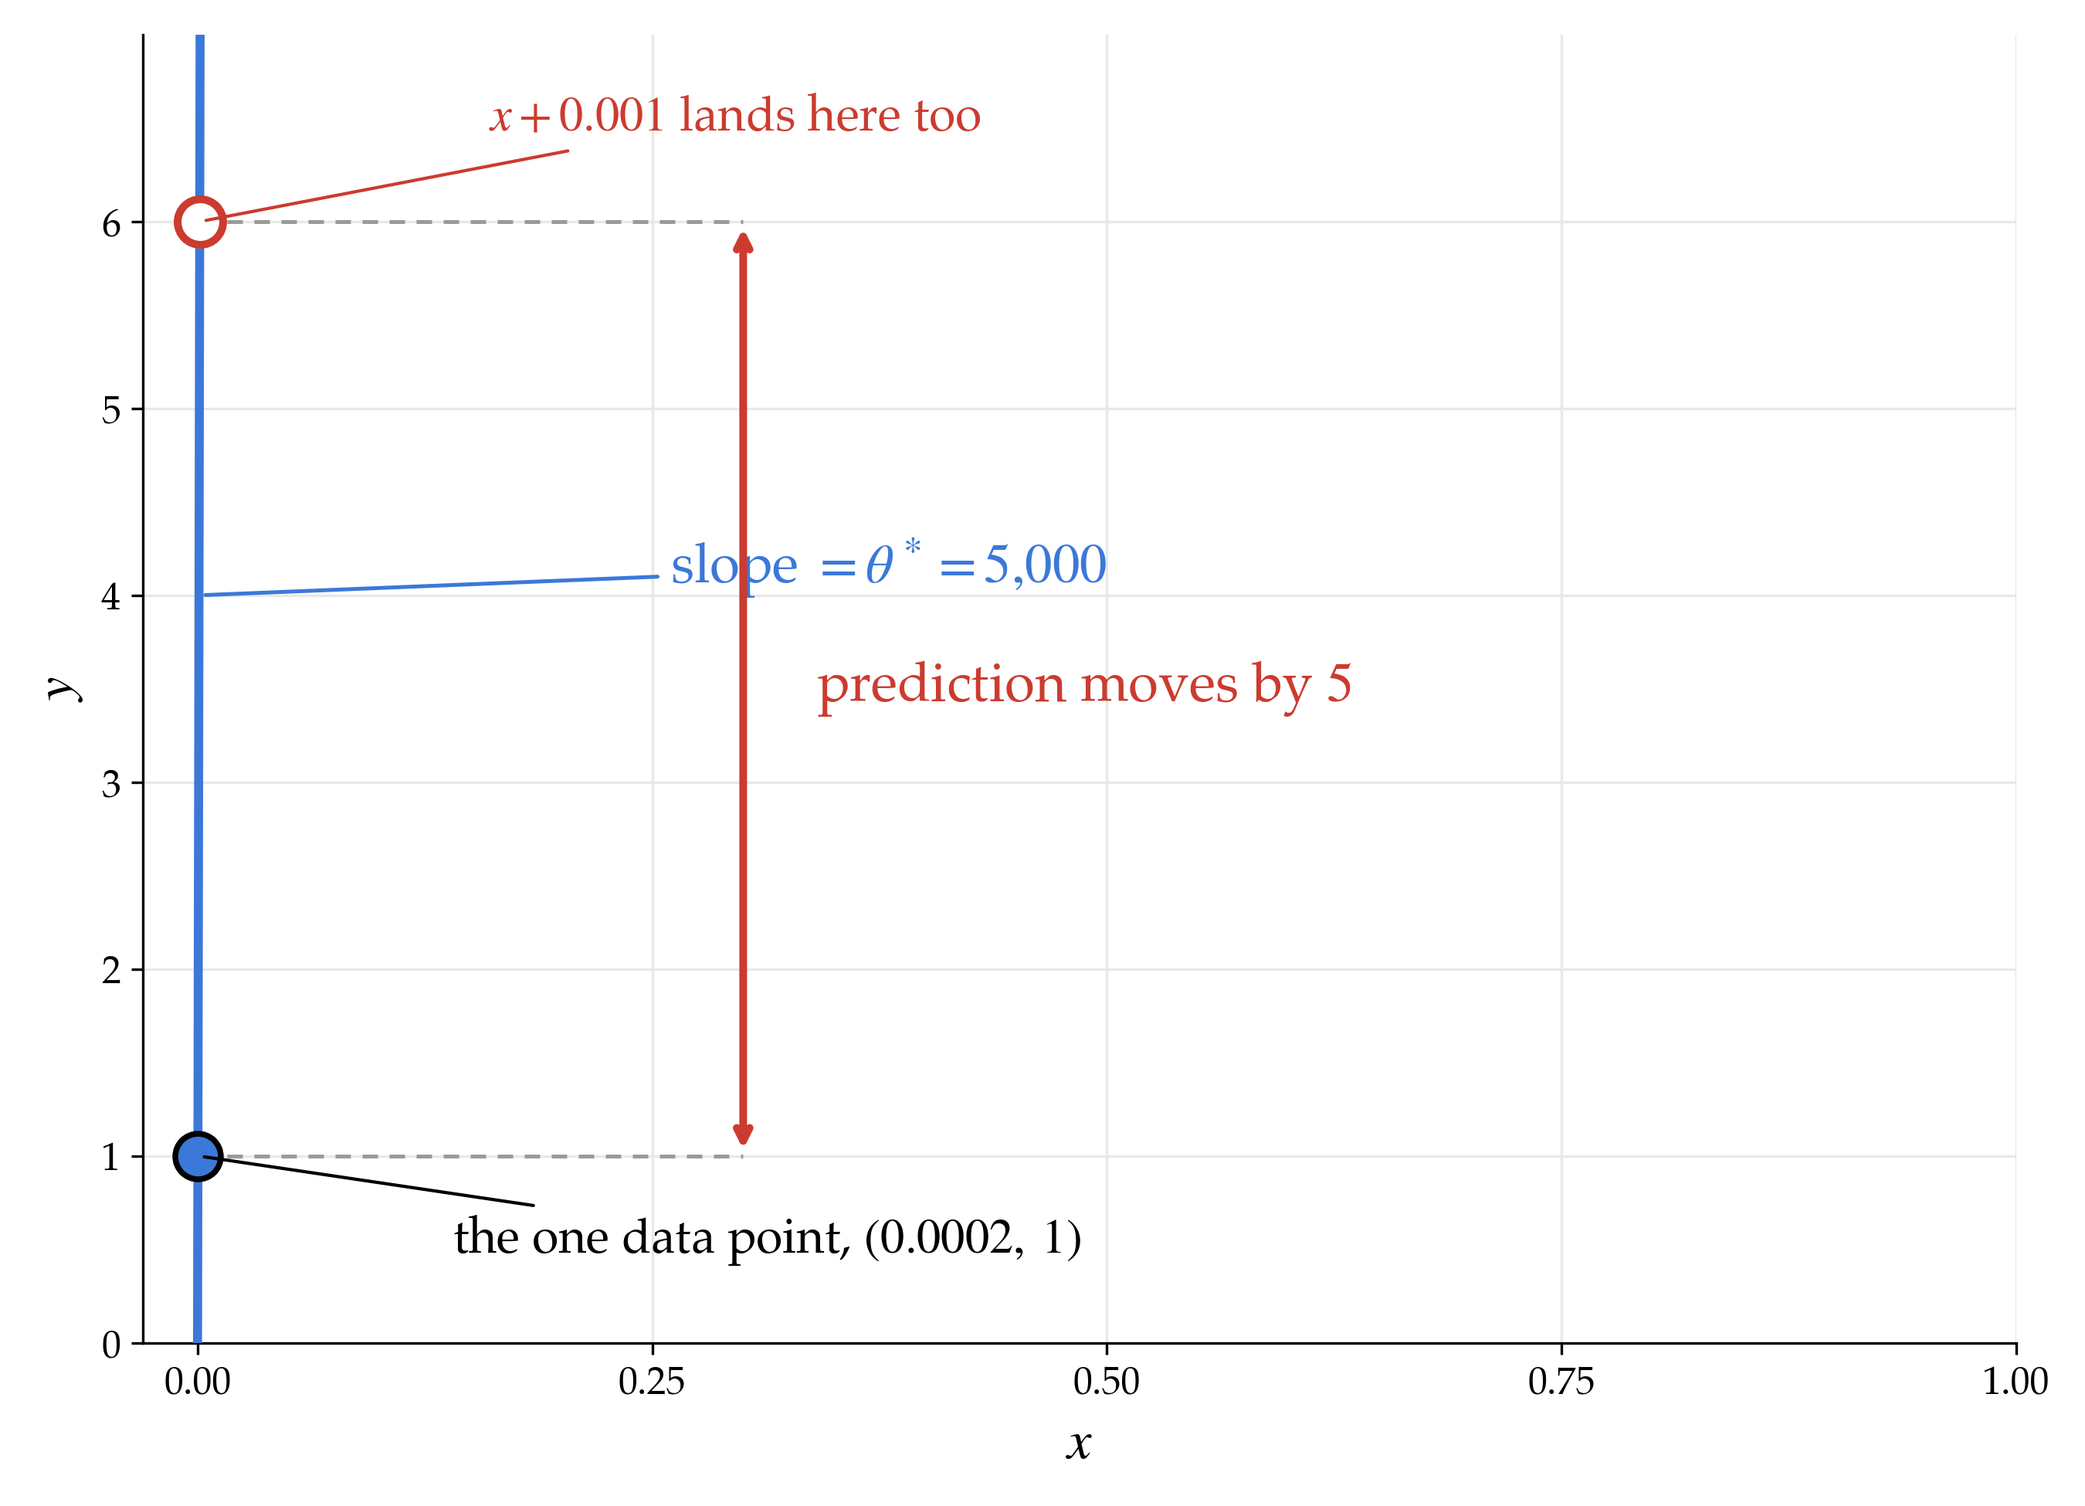
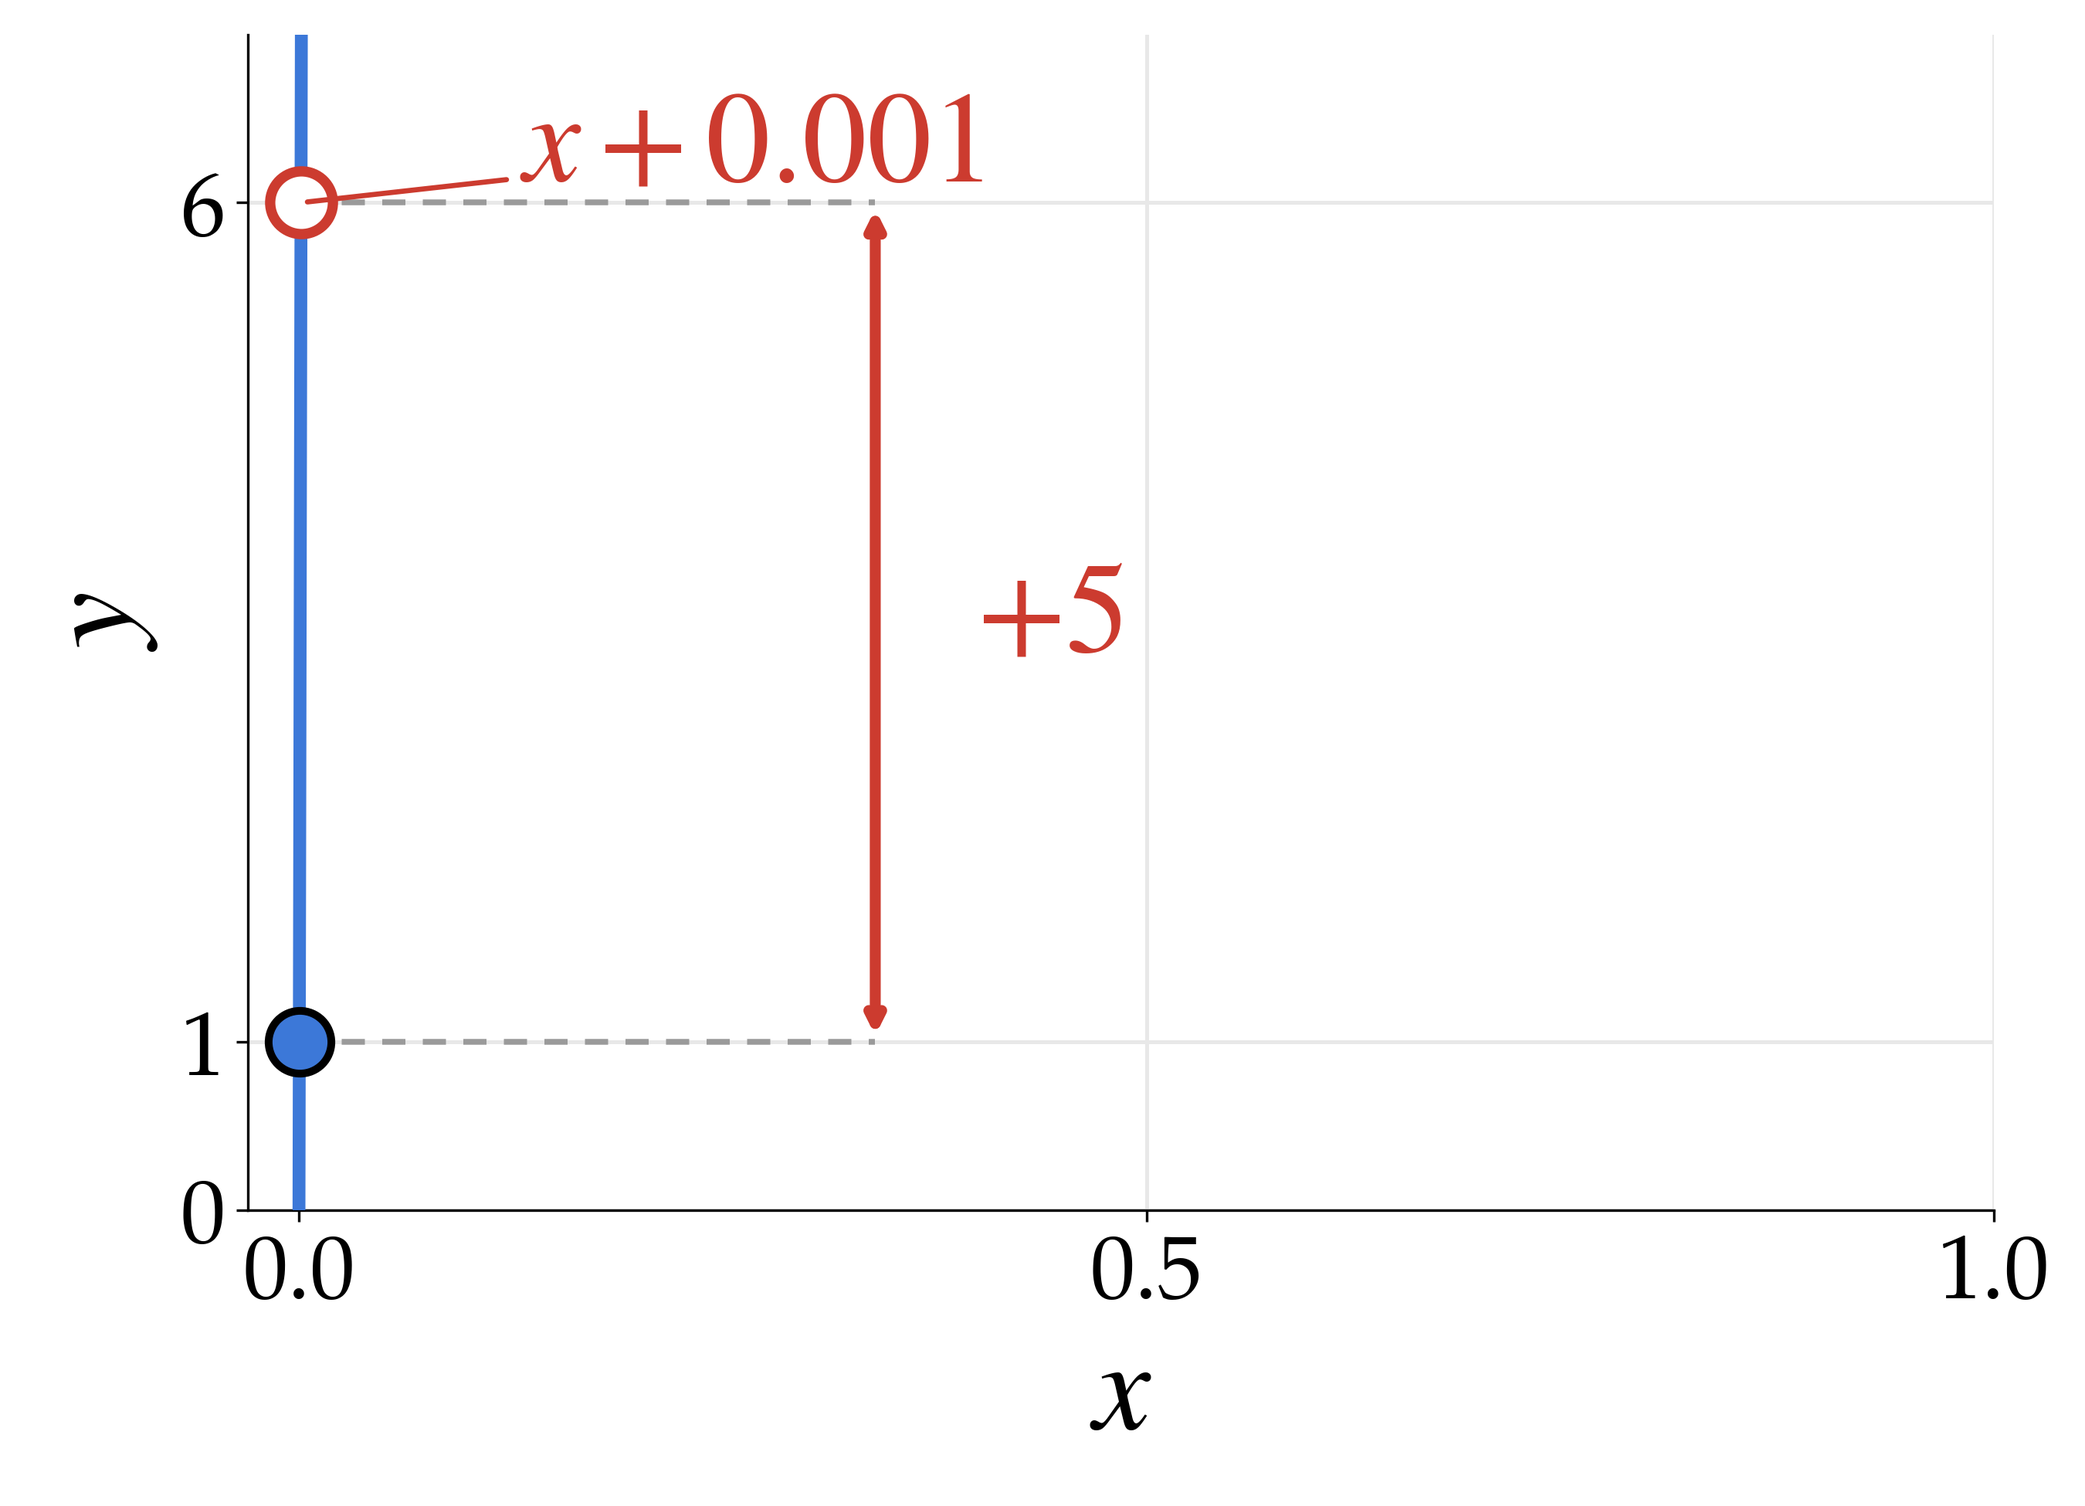
ridge: size the sensitivity figures for a 400px placement
These sit on the slide about 400px wide, a downscale of four to six, so 17pt type
arrived at roughly 11px and could not be read. Labels are now 34 to 40pt, landing
near 26 to 31px on the slide.

That size only works with far fewer labels. At 48pt with the original five, the
theta caption sat on the gap arrow and the theta value was written through a data
point. Each figure now carries only what it is for: the fit names theta*, the
nudge names the gap, and the two-feature pair names neither, since the value and
the prose belong in slide text blocks that render at full slide resolution instead
of being shrunk with the picture.

The inset also gets an equal aspect. Its box is about 1.6 times wider than tall,
so equal data spans drew unequal lengths and the horizontal wobble came out 60%
longer than the vertical deviation it is meant to match. The whole point of that
inset is comparing those two arrows by eye, so the picture was overstating the
thing it was proving.

diff --git a/ridge/two-feature-collinear.py b/ridge/two-feature-collinear.py
@@ -16,12 +16,16 @@ from PIL import Image
 # The one-feature slides show the consequence, a huge theta and a prediction that
 # swings. This shows the cause. The four points sit within 0.001 of the line
 # x2 = x1, so every scrap of information distinguishing the two features lives in a
-# band a thousandth wide. To turn that band into labels spanning 5, the fit has to
-# multiply it by about a thousand, which is precisely theta = (-999, 1000).
+# band a thousandth wide. Turning that into labels spanning 5 takes a multiplier of
+# about a thousand, which is precisely theta = (-999, 1000).
 #
 # A 3D picture of that plane is unreadable: over this data box it spans about
 # +/-5000 in y, so it renders as a vertical wall. The demo on the same slide is the
 # better place to watch the plane move. This is here to explain why it moves.
+#
+# Placed about 400px wide, so type is set for a downscale of roughly four and a
+# half. At that size only one or two labels fit before they start landing on the
+# data, so the theta value and the prose belong in slide text blocks, not here.
 X1 = np.array([-2.0, -1.0, 1.0, 2.0])
 X2 = np.array([-1.999, -1.001, 0.999, 2.001])
 Y = np.array([-1.0, -2.0, 0.0, 3.0])
@@ -32,6 +36,7 @@ DELTA = 0.001                        # a measurement wobble, the same size
 POINT, LINE, NUDGE, FAINT = '#3c78d8', '#9a9a9a', '#cc3b2f', '#e8e8e8'
 LIM = 2.6
 ZOOM_AT = 3                          # which point the inset magnifies
+BIG, MID, TICK = 34, 28, 26          # sized for a 400px-wide placement
 
 
 def save(fig, out):
@@ -50,18 +55,19 @@ def frame():
     """Feature space, with the four points and the line they almost lie on."""
     fig, ax = plt.subplots(figsize=(9, 6.5))
     ax.plot([-LIM, LIM], [-LIM, LIM], color=LINE, linestyle='--', dashes=(6, 4),
-            linewidth=1.6, zorder=2)
-    ax.annotate(r'$x_2 = x_1$', xy=(1.55, 1.55), xytext=(1.95, 1.15),
-                fontsize=16, color=LINE, va='center', zorder=5)
-    ax.scatter(X1, X2, s=200, color=POINT, edgecolors='black', linewidth=1.8, zorder=6)
+            linewidth=2.6, zorder=2)
+    # Lower right, the one quadrant with neither a point nor the inset in it.
+    ax.annotate(r'$x_2 = x_1$', xy=(0.35, -1.75), xytext=(0.35, -1.75),
+                fontsize=BIG, color=LINE, va='center', zorder=5)
+    ax.scatter(X1, X2, s=380, color=POINT, edgecolors='black', linewidth=2.4, zorder=6)
     ax.set_xlim(-LIM, LIM)
     ax.set_ylim(-LIM, LIM)
-    ax.set_xlabel(r'$x_1$', fontsize=17)
-    ax.set_ylabel(r'$x_2$', fontsize=17)
-    ax.set_xticks([-2, -1, 0, 1, 2])
-    ax.set_yticks([-2, -1, 0, 1, 2])
-    ax.tick_params(labelsize=12)
-    ax.grid(True, color=FAINT, linewidth=0.8, zorder=0)
+    ax.set_xlabel(r'$x_1$', fontsize=BIG)
+    ax.set_ylabel(r'$x_2$', fontsize=BIG)
+    ax.set_xticks([-2, 0, 2])
+    ax.set_yticks([-2, 0, 2])
+    ax.tick_params(labelsize=TICK)
+    ax.grid(True, color=FAINT, linewidth=1.2, zorder=0)
     ax.set_aspect('equal')
     for side in ('top', 'right'):
         ax.spines[side].set_visible(False)
@@ -71,56 +77,52 @@ def frame():
 def inset(ax, show_nudge):
     """Magnify one point until the deviation from the line is actually visible."""
     cx, cy = X1[ZOOM_AT], X2[ZOOM_AT]
-    half = 0.0028
-    ins = ax.inset_axes([0.09, 0.58, 0.36, 0.36])
-    ins.plot([cx - half, cx + half], [cx - half, cx + half], color=LINE,
-             linestyle='--', dashes=(6, 4), linewidth=1.4, zorder=2)
-    ins.scatter([cx], [cy], s=150, color=POINT, edgecolors='black',
-                linewidth=1.6, zorder=6)
-    # the deviation, drawn as what it is: one thousandth
+    # Tight enough that the 0.001 deviation is about a third of the box. Any wider
+    # and the arrow measuring it is shorter than the marker sitting on top of it,
+    # which is what made the first version unreadable.
+    half = 0.0014
+    ins = ax.inset_axes([0.05, 0.62, 0.40, 0.34])
+    ins.plot([cx - 2 * half, cx + 2 * half], [cx - 2 * half, cx + 2 * half],
+             color=LINE, linestyle='--', dashes=(6, 4), linewidth=2.0, zorder=2)
+    ins.scatter([cx], [cy], s=200, color=POINT, edgecolors='black',
+                linewidth=2.0, zorder=6)
     ins.annotate('', xy=(cx, cy), xytext=(cx, cx),
-                 arrowprops=dict(arrowstyle='<->', color='black', linewidth=1.8), zorder=7)
-    ins.annotate(r'$0.001$', xy=(cx, cx + DEV[ZOOM_AT] / 2), xytext=(cx + 0.0004, cx + 0.0005),
-                 fontsize=13, color='black', va='center', zorder=7)
+                 arrowprops=dict(arrowstyle='<->', color='black', linewidth=2.4), zorder=7)
+    # Beside the arrow it measures, not adrift in a corner.
+    ins.annotate(r'$0.001$', xy=(cx, cx + DELTA / 2),
+                 xytext=(cx + 0.00022, cx + DELTA / 2),
+                 fontsize=MID, color='black', va='center', ha='left', zorder=7)
     if show_nudge:
+        # The wobble carries no label. It is the same length as the black arrow
+        # beside it, which is the entire point, and a word here lands on the data.
         ins.annotate('', xy=(cx + DELTA, cy), xytext=(cx, cy),
-                     arrowprops=dict(arrowstyle='->', color=NUDGE, linewidth=2.2), zorder=8)
-        ins.annotate('a $0.001$ wobble', xy=(cx + DELTA, cy), xytext=(cx - 0.0025, cy + 0.0013),
-                     fontsize=13, color=NUDGE, va='center', zorder=8)
+                     arrowprops=dict(arrowstyle='->', color=NUDGE, linewidth=3.0), zorder=8)
     ins.set_xlim(cx - half, cx + half)
-    ins.set_ylim(cx - half, cx + half * 1.4)
+    ins.set_ylim(cx - half * 0.6, cx + half * 1.4)
+    # Equal aspect, because the reader is meant to compare the two arrows by eye.
+    # The inset box is about 1.6 times wider than it is tall, so without this the
+    # horizontal wobble renders 60% longer than the vertical deviation it is
+    # supposed to match, and the picture overstates the very thing it is proving.
+    ins.set_aspect('equal')
     ins.set_xticks([]); ins.set_yticks([])
     for s in ins.spines.values():
         s.set_color('#bbbbbb')
     ins.set_facecolor('white')
-    ins.set_title('zoomed in on one point', fontsize=13, color='#555555', pad=6)
     # Connect the inset to the speck it came from. Without this the zoom floats and
     # nothing says which of the four points it magnifies, or how small the region is.
-    ax.indicate_inset_zoom(ins, edgecolor='#999999', linewidth=1.2, alpha=0.9)
+    ax.indicate_inset_zoom(ins, edgecolor='#999999', linewidth=1.6, alpha=0.9)
     return ins
 
 
 def collinear(out):
     fig, ax = frame()
     inset(ax, show_nudge=False)
-    ax.annotate('every point sits within $0.001$ of the line',
-                xy=(0, -1.75), xytext=(0, -1.75), fontsize=16, color='black',
-                ha='center', va='center', zorder=7)
-    ax.annotate(r'so the fit needs $\theta \approx (-999,\; 1000)$ to use it',
-                xy=(0, -2.15), xytext=(0, -2.15), fontsize=16, color=POINT,
-                ha='center', va='center', zorder=7)
     save(fig, out)
 
 
 def with_nudge(out):
     fig, ax = frame()
     inset(ax, show_nudge=True)
-    ax.annotate('a measurement wobble is the same size as the signal',
-                xy=(0, -1.75), xytext=(0, -1.75), fontsize=16, color='black',
-                ha='center', va='center', zorder=7)
-    ax.annotate(r'nudge $x_1$ by $0.001$ and the prediction moves by $1.0$',
-                xy=(0, -2.15), xytext=(0, -2.15), fontsize=16, color=NUDGE,
-                ha='center', va='center', zorder=7)
     save(fig, out)
 
 
@@ -135,3 +137,4 @@ for name, vec in (('x1 only  +0.001', np.array([DELTA, 0.0])),
                   ('x2 only  +0.001', np.array([0.0, DELTA])),
                   ('both     +0.001', np.array([DELTA, DELTA]))):
     print('  %-16s -> prediction moves %+.4f' % (name, THETA @ vec))
+print('  label type: %dpt = %dpx in source' % (BIG, BIG * 300 / 72))

diff --git a/ridge/one-point-sensitivity.py b/ridge/one-point-sensitivity.py
@@ -18,12 +18,14 @@ from PIL import Image
 # problem: X is full column rank and nothing is singular.
 #
 # x runs from 0 to 1, an ordinary feature range, and that choice is the argument.
-# At this scale the fitted line is a vertical wall against the y axis, and the two
-# x values, 0.0002 and 0.0012, land within a few pixels of each other. A viewer
-# cannot tell them apart. The predictions they produce differ by 5. Everything
-# interesting is therefore squeezed against the left edge, so the labels ride out
-# into the empty space on leaders, and the gap is measured by a bracket set to the
-# right rather than drawn at its true x, where the line already is.
+# At this scale the fitted line is a vertical wall against the y axis and the two x
+# values land a few pixels apart, indistinguishable. Their predictions differ by 5.
+#
+# These sit on the slide about 400px wide, a downscale of roughly six, so type is
+# set around 40pt to arrive near 26px. That size only works with very few labels:
+# five of them collide with each other and with the data. Each figure therefore
+# carries the one thing it is for. The fit names theta*, the nudge names the gap,
+# and every sentence belongs in a slide text block beside the picture.
 X_TRAIN, Y_TRAIN = 0.0002, 1.0
 THETA = 1.0 / X_TRAIN                 # 5,000
 DELTA = 0.001                         # the nudge, a thousandth
@@ -32,7 +34,8 @@ Y_NEW = THETA * X_NEW                 # 6.0
 
 LINE, POINT, NUDGE, LEAD = '#3c78d8', '#3c78d8', '#cc3b2f', '#9a9a9a'
 XMAX, YMAX = 1.0, 7.0
-BRACKET = 0.30                        # where the gap is measured, out in clear space
+BRACKET = 0.34                        # where the gap is measured, out in clear space
+BIG, TICK = 40, 28                    # sized for a 400px-wide placement
 
 
 def save(fig, out):
@@ -51,55 +54,55 @@ def frame():
     """The shared frame, so the two figures sit still on consecutive slides."""
     fig, ax = plt.subplots(figsize=(9, 6.5))
     xs = np.linspace(0, XMAX, 400)
-    ax.plot(xs, THETA * xs, color=LINE, linewidth=2.8, zorder=3)
-    ax.scatter([X_TRAIN], [Y_TRAIN], s=200, color=POINT, edgecolors='black',
-               linewidth=1.8, zorder=6)
-    ax.annotate(r'slope $= \theta^* = 5{,}000$', xy=(0.0008, 4.0), xytext=(0.26, 4.15),
-                fontsize=17, color=LINE, va='center',
-                arrowprops=dict(arrowstyle='-', color=LINE, linewidth=1.2), zorder=7)
-    ax.annotate(r'the one data point, $(0.0002,\; 1)$', xy=(X_TRAIN, Y_TRAIN),
-                xytext=(0.14, 0.55), fontsize=15, color='black', va='center',
-                arrowprops=dict(arrowstyle='-', color='black', linewidth=1.0), zorder=7)
+    ax.plot(xs, THETA * xs, color=LINE, linewidth=4.0, zorder=3)
+    ax.scatter([X_TRAIN], [Y_TRAIN], s=380, color=POINT, edgecolors='black',
+               linewidth=2.4, zorder=6)
     # Start a hair left of zero. Both x values sit within a pixel of the axis, and
     # against the spine itself the markers render as half circles, which reads as a
     # drawing fault rather than as the point about scale.
     ax.set_xlim(-0.03, XMAX)
     ax.set_ylim(0, YMAX)
-    ax.set_xlabel(r'$x$', fontsize=17)
-    ax.set_ylabel(r'$y$', fontsize=17)
-    ax.set_xticks([0, 0.25, 0.5, 0.75, 1.0])
-    ax.set_yticks([0, 1, 2, 3, 4, 5, 6])
-    ax.tick_params(labelsize=12)
-    ax.grid(True, color='#e8e8e8', linewidth=0.8, zorder=0)
+    ax.set_xlabel(r'$x$', fontsize=BIG)
+    ax.set_ylabel(r'$y$', fontsize=BIG)
+    ax.set_xticks([0, 0.5, 1.0])
+    ax.set_yticks([0, 1, 6])
+    ax.tick_params(labelsize=TICK)
+    ax.grid(True, color='#e8e8e8', linewidth=1.2, zorder=0)
     for side in ('top', 'right'):
         ax.spines[side].set_visible(False)
     return fig, ax
 
 
 def fit_only(out):
-    """The point, and the line the closed form hands back through it."""
+    """The point, the line, and the one number worth naming."""
     fig, ax = frame()
+    ax.annotate(r'$\theta^* = 5{,}000$', xy=(0.0009, 4.5), xytext=(0.26, 3.6),
+                fontsize=BIG, color=LINE, va='center',
+                arrowprops=dict(arrowstyle='-', color=LINE, linewidth=1.8), zorder=7)
     save(fig, out)
 
 
 def with_nudge(out):
-    """The same line, and what one thousandth of x does to the prediction."""
+    """The same line, and what one thousandth of x does to the prediction.
+
+    theta* is not renamed here. It is on the previous slide, and at this type size
+    a second label collides with the gap arrow.
+    """
     fig, ax = frame()
-    ax.scatter([X_NEW], [Y_NEW], s=200, facecolors='white', edgecolors=NUDGE,
-               linewidth=2.4, zorder=6)
-    # The two x values are a few pixels apart at this scale, so say so rather than
-    # pretend the picture can separate them.
-    ax.annotate(r'$x+0.001$ lands here too', xy=(X_NEW, Y_NEW), xytext=(0.16, 6.55),
-                fontsize=15, color=NUDGE, va='center',
-                arrowprops=dict(arrowstyle='-', color=NUDGE, linewidth=1.0), zorder=7)
-    # Faint leaders carry the two heights out to where the gap can be drawn.
+    ax.scatter([X_NEW], [Y_NEW], s=380, facecolors='white', edgecolors=NUDGE,
+               linewidth=3.2, zorder=6)
+    ax.annotate(r'$x + 0.001$', xy=(X_NEW, Y_NEW), xytext=(0.13, 6.3),
+                fontsize=BIG, color=NUDGE, va='center',
+                arrowprops=dict(arrowstyle='-', color=NUDGE, linewidth=1.6), zorder=7)
+    # The gap cannot be drawn at its true x, because that is exactly where the line
+    # is, so faint leaders carry the two heights out to clear ground.
     for yy in (Y_TRAIN, Y_NEW):
         ax.plot([X_NEW, BRACKET], [yy, yy], color=LEAD, linestyle='--',
-                dashes=(4, 3), linewidth=1.2, zorder=2)
+                dashes=(4, 3), linewidth=1.8, zorder=2)
     ax.annotate('', xy=(BRACKET, Y_NEW), xytext=(BRACKET, Y_TRAIN),
-                arrowprops=dict(arrowstyle='<->', color=NUDGE, linewidth=2.4), zorder=7)
-    ax.annotate(r'prediction moves by $5$', xy=(BRACKET, 3.5), xytext=(BRACKET + 0.04, 3.5),
-                fontsize=17, color=NUDGE, va='center', ha='left', zorder=7)
+                arrowprops=dict(arrowstyle='<->', color=NUDGE, linewidth=3.4), zorder=7)
+    ax.annotate(r'$+5$', xy=(BRACKET, 3.5), xytext=(BRACKET + 0.06, 3.5),
+                fontsize=BIG, color=NUDGE, va='center', ha='left', zorder=7)
     save(fig, out)
 
 
@@ -110,5 +113,4 @@ assert abs(THETA - 5000.0) < 1e-9 and abs(Y_NEW - 6.0) < 1e-9
 print('  x = %g, theta* = 1/x = %s' % (X_TRAIN, '{:,.0f}'.format(THETA)))
 print('  nudging x by %g moves the prediction from %g to %g, a gap of %g'
       % (DELTA, Y_TRAIN, Y_NEW, Y_NEW - Y_TRAIN))
-print('  on a 0 to 1 axis the two x values are %.3f%% and %.3f%% across'
-      % (100 * X_TRAIN / XMAX, 100 * X_NEW / XMAX))
+print('  label type: %dpt = %dpx in source' % (BIG, BIG * 300 / 72))
